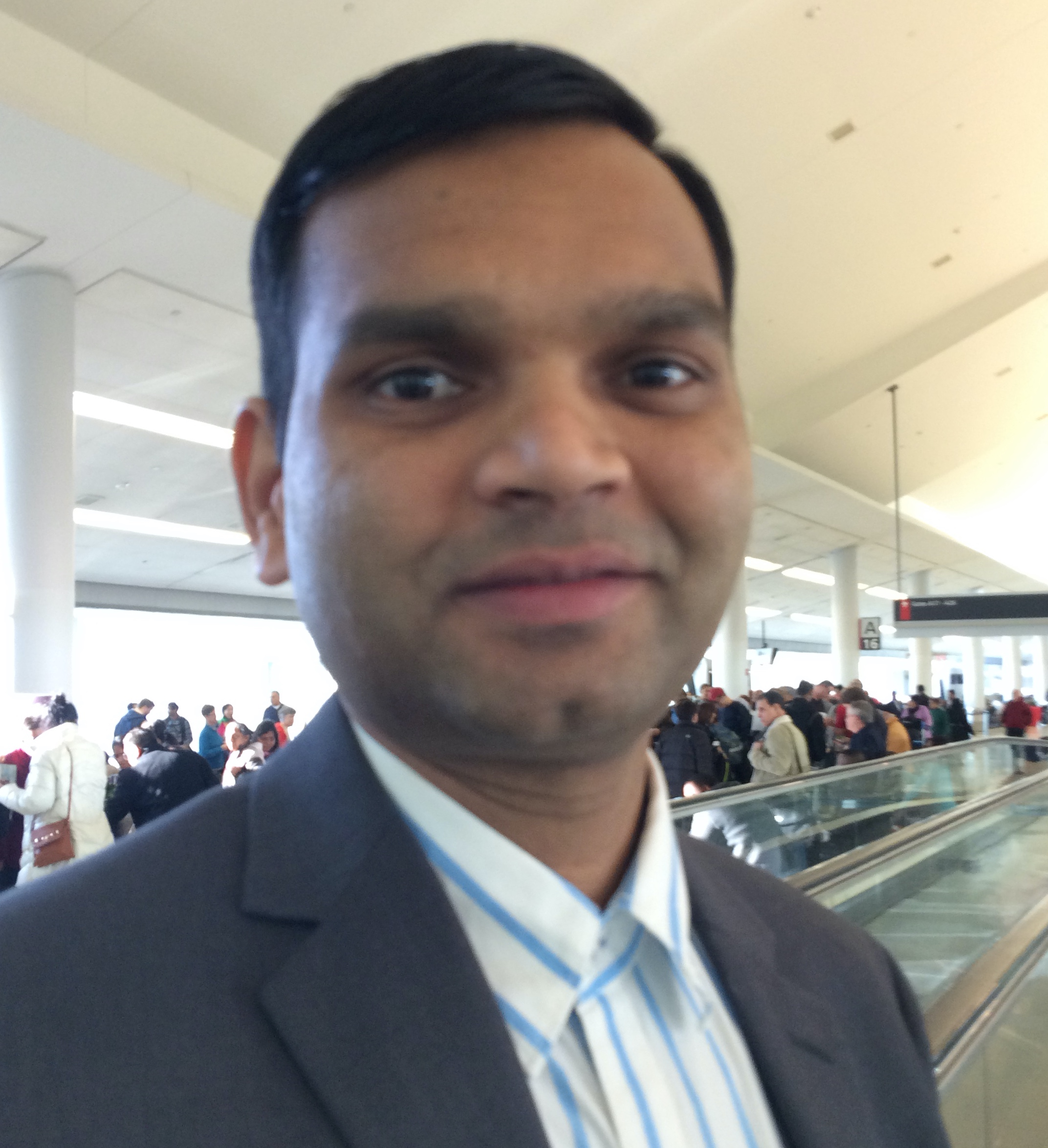
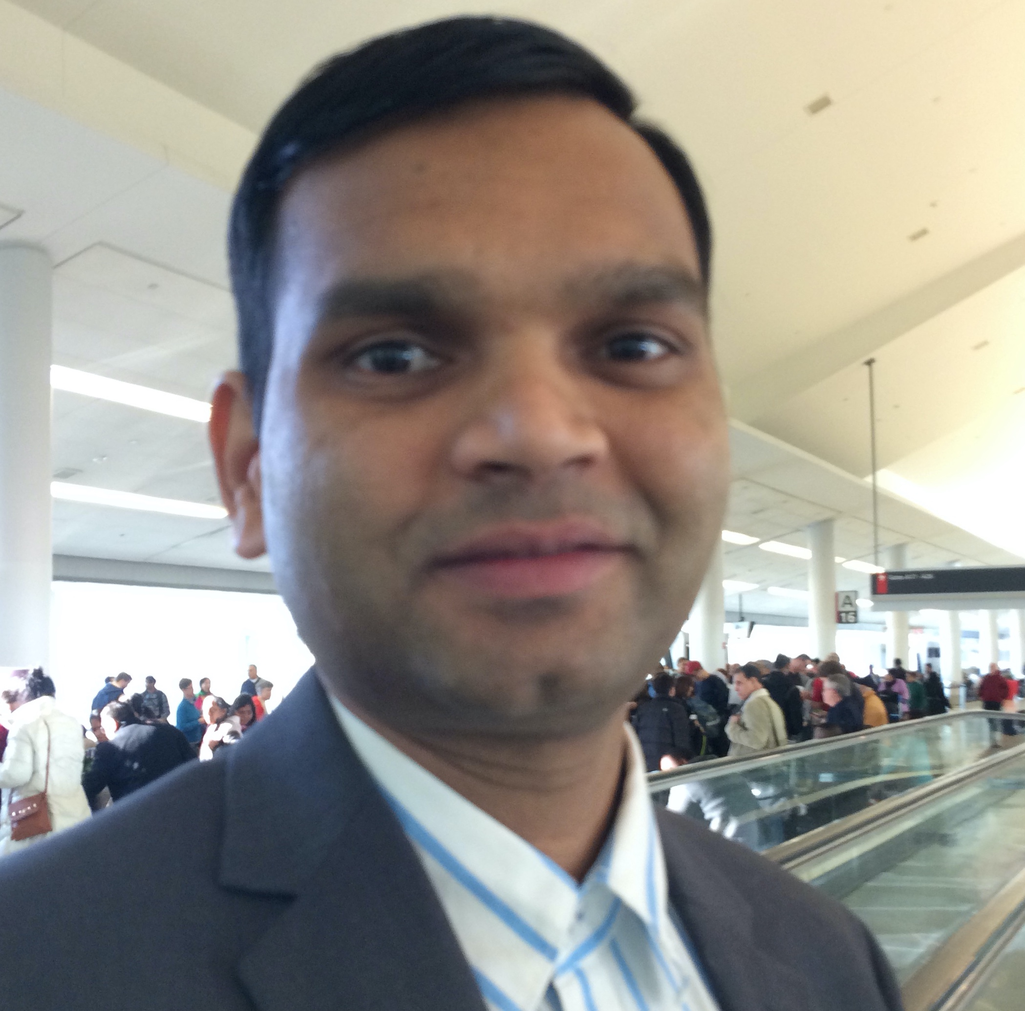
Update codes to link contact page

diff --git a/public/index.html b/public/index.html
@@ -1,4 +1,4 @@
-<!doctype html>
+<!DOCTYPE html>
 <html lang="en">
 
 <head>
@@ -12,7 +12,8 @@
     -->
   <link rel="manifest" href="%PUBLIC_URL%/manifest.json">
   <link rel="shortcut icon" href="%PUBLIC_URL%/RSfavicon.ico">
-  <link rel='stylesheet prefetch' href='https://cdnjs.cloudflare.com/ajax/libs/font-awesome/4.6.3/css/font-awesome.min.css'>
+  <link rel='stylesheet prefetch'
+    href='https://cdnjs.cloudflare.com/ajax/libs/font-awesome/4.6.3/css/font-awesome.min.css'>
 
   <title>RAM SAH</title>
 
@@ -50,8 +51,7 @@
   <noscript>
     <div class="statcounter"><a title="website
 statistics" href="http://statcounter.com/" target="_blank"><img class="statcounter"
-src="//c.statcounter.com/11436881/0/3e96233f/1/"
-alt="website statistics"></a></div>
+          src="//c.statcounter.com/11436881/0/3e96233f/1/" alt="website statistics"></a></div>
   </noscript>
   <!-- End of StatCounter Code for Default Guide -->
 </body>

diff --git a/src/containers/Header.js b/src/containers/Header.js
@@ -5,7 +5,7 @@ import Pdf from '../assets/RAM-resume.pdf';
 
 const ProfileImage = styled.img`
   width: 10em;
-  height: 11em;
+  height: 10em;
   border-radius: 50%;
 `;
 
@@ -41,7 +41,7 @@ class Header extends Component {
         </Link>
         <div>
           <NavLink to='/'>ABOUT</NavLink>
-          <NavLink to='/code'>CODE</NavLink>
+          <NavLink to='/code'>PORTFOLIO</NavLink>
           <NavLink to='/contact'>CONTACT</NavLink>           
            {/* <NavLink to=''>RESUME</NavLink> */}
            <NavLink href ={Pdf} target="_black">RESUME</NavLink>

diff --git a/src/App.js b/src/App.js
@@ -3,12 +3,13 @@ import { IndexRoute, Router, Route, hashHistory } from 'react-router';
 
 import App from './containers/App'
 import Home from './containers/Home'
+import Contact from './containers/Contact'
 
 export default (
     <Router history={hashHistory}>
       <Route path='/' component={App}>
         <IndexRoute component={Home}/>
-       
+        <Route path='/contact' component={Contact} />
       </Route>
     </Router>
 
